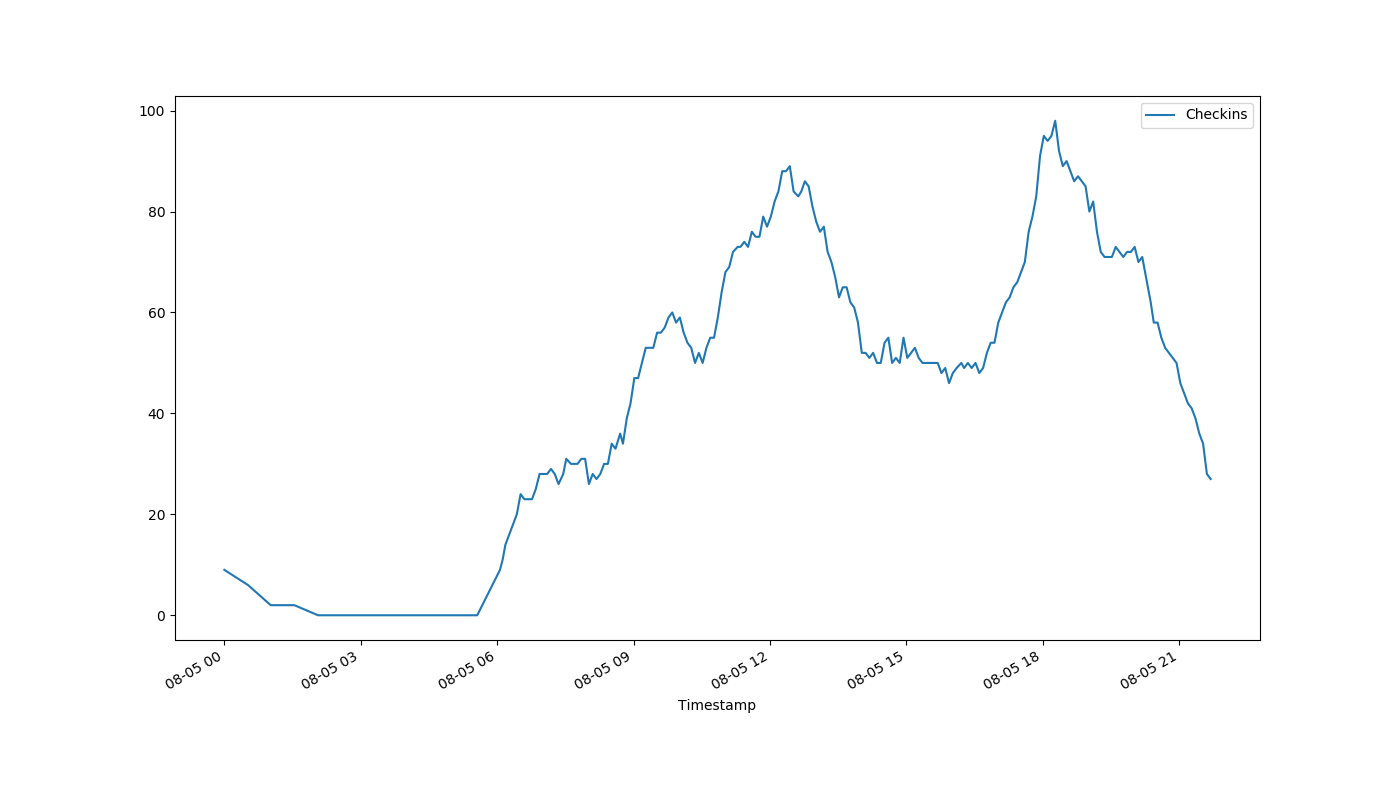
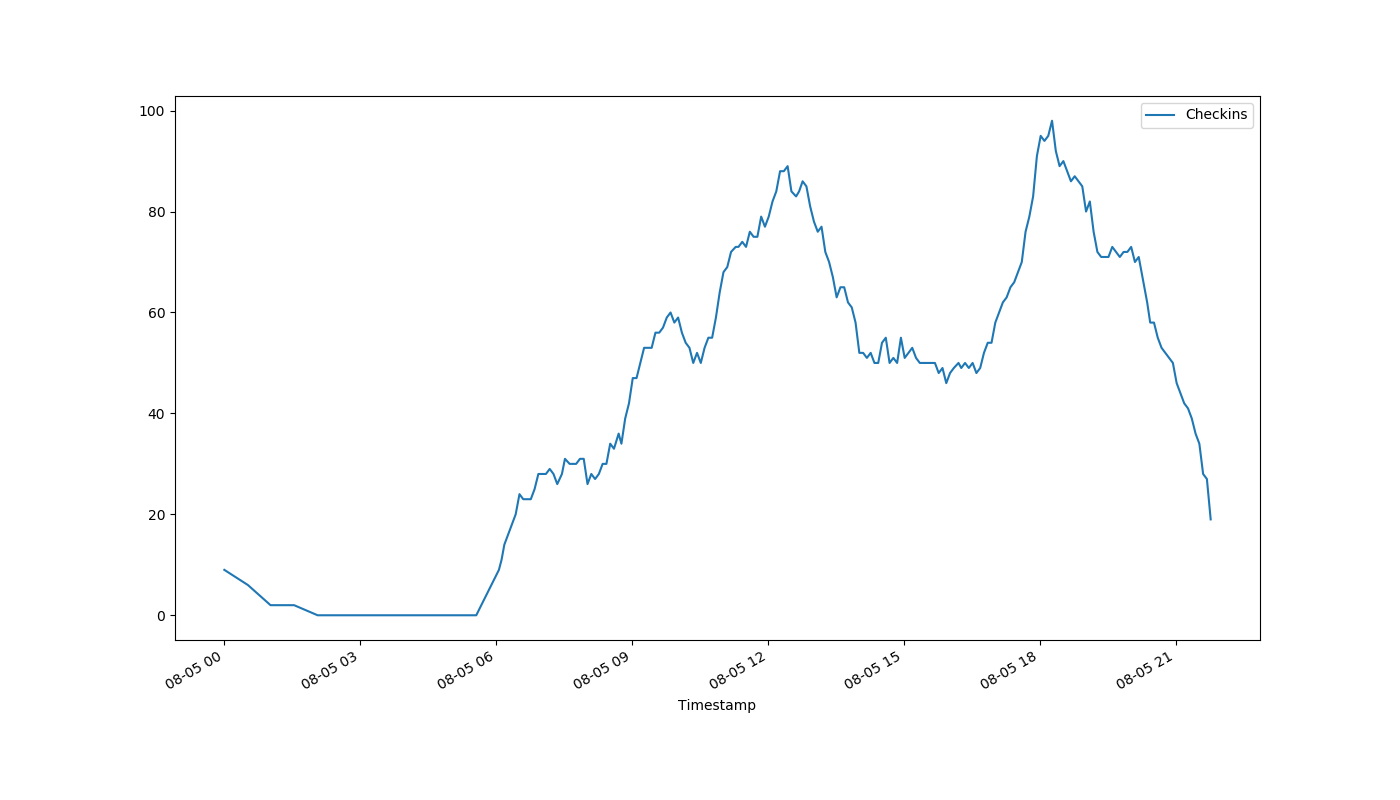
auto-Aug-05-21:48:24

diff --git a/index.html b/index.html
@@ -1,1 +1,1 @@
-<!DOCTYPE html><html><head><meta http-equiv="refresh" content="30"><link rel='stylesheet' href='holmcurrent.css'></head><body><p id='count'>27</p><div id='graph-wrap'><img id='graph' src='holmgraph-Aug-05.png'></div><p id='updated'>Last updated 21:42:10 / 21:41:19</p></body></html>
+<!DOCTYPE html><html><head><meta http-equiv="refresh" content="30"><link rel='stylesheet' href='holmcurrent.css'></head><body><p id='count'>19</p><div id='graph-wrap'><img id='graph' src='holmgraph-Aug-05.png'></div><p id='updated'>Last updated 21:47:10 / 21:46:19</p></body></html>
